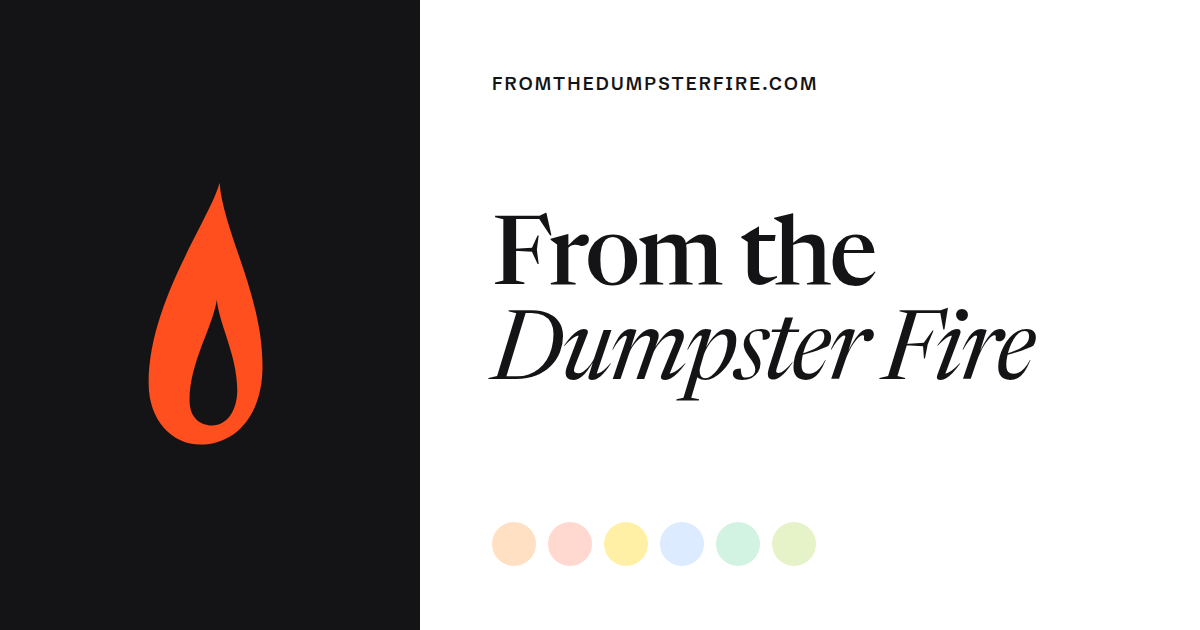
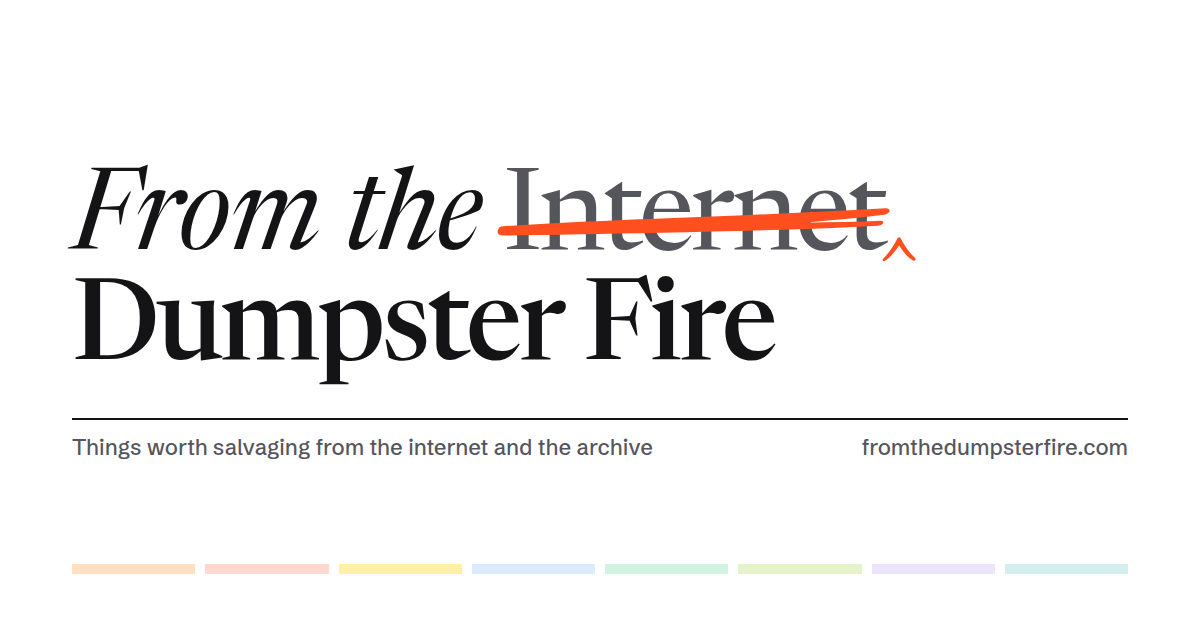
Web: default share image with the corrected masthead; the contents rule in the edition ink
Claude-Session: https://claude.ai/code/session_01QDocWfnNDiEYsBGkSeToHP

diff --git a/apps/web/scripts/og.html b/apps/web/scripts/og.html
@@ -1,33 +1,31 @@
 <!doctype html>
-<!-- Source of public/og.png, the default share image (1200x630). Rendered with:
-     google-chrome --headless --hide-scrollbars --window-size=1200,630 --screenshot=public/og.png scripts/og.html
-     (run from apps/web). Type and colours only; no generated imagery. -->
+<!-- Source of public/og.png, the default share image (1200x630), used when a page has no Haul card or
+     plate. Rendered with (from apps/web):
+     google-chrome --headless=new --hide-scrollbars --allow-file-access-from-files --window-size=1200,630 --screenshot=public/og.png scripts/og.html
+     Type, the masthead's marks and the type swatches only; no generated imagery. -->
 <html lang="en">
 <head>
 <meta charset="utf-8">
 <style>
 @font-face { font-family: 'ND'; src: url('../public/fonts/NewsreaderDisplay-Medium.woff2'); font-weight: 500; }
+@font-face { font-family: 'ND'; src: url('../public/fonts/NewsreaderDisplay-Regular.woff2'); font-weight: 400; }
 @font-face { font-family: 'ND'; src: url('../public/fonts/NewsreaderDisplay-Italic.woff2'); font-weight: 400; font-style: italic; }
-@font-face { font-family: 'SG'; src: url('../public/fonts/Schibsted-SemiBold.woff2'); font-weight: 600; }
+@font-face { font-family: 'SG'; src: url('../public/fonts/Schibsted-Medium.woff2'); font-weight: 500; }
 html, body { margin: 0; width: 1200px; height: 630px; overflow: hidden; }
-body { background: #FFFFFF; color: #141416; font-family: 'ND', serif; display: grid; grid-template-columns: 420px 1fr; }
-.left { background: #141416; display: flex; align-items: center; justify-content: center; }
-.right { padding: 72px 72px 64px; display: flex; flex-direction: column; justify-content: space-between; }
-.label { font-family: 'SG', sans-serif; font-weight: 600; font-size: 18px; letter-spacing: 0.12em; text-transform: uppercase; }
-h1 { margin: 0; font-weight: 500; font-size: 96px; line-height: 0.98; letter-spacing: -0.03em; }
-h1 em { font-weight: 400; }
-.swatches { display: flex; gap: 12px; }
-.swatches span { width: 44px; height: 44px; border-radius: 50%; }
+body { background: #FFFFFF; color: #141416; font-family: 'ND', serif; padding: 0 72px; box-sizing: border-box; display: flex; flex-direction: column; justify-content: center; position: relative; }
+.mast { font-weight: 500; font-size: 112px; line-height: 0.98; letter-spacing: -0.03em; }
+.mast i { font-weight: 400; letter-spacing: -0.01em; }
+.mast s { text-decoration: none; position: relative; color: #55555C; font-weight: 400; }
+.mast s::after { content: ''; position: absolute; left: -0.06em; right: -0.08em; top: 0.33em; height: 0.3em; background: #FF4F1F; -webkit-mask: url('../public/marks/strike.svg') center / 100% 100% no-repeat; }
+.caret { display: inline-block; width: 0.3em; height: 0.24em; margin: 0 -0.1em 0 -0.02em; vertical-align: -0.12em; background: #FF4F1F; -webkit-mask: url('../public/marks/caret.svg') center / contain no-repeat; }
+.strap { display: flex; justify-content: space-between; margin-top: 30px; padding-top: 14px; border-top: 2px solid #141416; font-family: 'SG', sans-serif; font-weight: 500; font-size: 22px; color: #55555C; }
+.keys { position: absolute; left: 72px; right: 72px; bottom: 56px; display: flex; gap: 10px; }
+.keys span { flex: 1; height: 10px; }
 </style>
 </head>
 <body>
-<div class="left">
-  <svg width="220" height="300" viewBox="20 14 24 44" aria-hidden="true"><path d="M33.4 16.6C32 22 23 34 23 46c0 5.5 3.5 9 7.6 9 4.9 0 9.1-4 9.1-11.5 0-10.5-5.7-19.5-6.3-26.9Z" fill="#FF4F1F"/><path d="M33 33.8c-.7 4.2-4 9.2-4 14.7 0 2.5 1.5 3.7 3.3 3.7 2.2 0 3.7-2.2 3.7-5.2 0-5-2.6-9.5-3-13.2Z" fill="#141416"/></svg>
-</div>
-<div class="right">
-  <div class="label">fromthedumpsterfire.com</div>
-  <h1>From the <em>Dumpster Fire</em></h1>
-  <div class="swatches"><span style="background:#FFE0C2"></span><span style="background:#FFD8D0"></span><span style="background:#FFF0A6"></span><span style="background:#DCEBFF"></span><span style="background:#D2F3E2"></span><span style="background:#E6F2C8"></span></div>
-</div>
+<div class="mast"><i>From the</i> <s>Internet</s><span class="caret"></span><br>Dumpster Fire</div>
+<div class="strap"><span>Things worth salvaging from the internet and the archive</span><span>fromthedumpsterfire.com</span></div>
+<div class="keys"><span style="background:#FFE0C2"></span><span style="background:#FFD8D0"></span><span style="background:#FFF0A6"></span><span style="background:#DCEBFF"></span><span style="background:#D2F3E2"></span><span style="background:#E6F2C8"></span><span style="background:#ECE4FA"></span><span style="background:#D3EFF0"></span></div>
 </body>
 </html>

diff --git a/apps/web/src/styles/global.css b/apps/web/src/styles/global.css
@@ -755,3 +755,4 @@ blockquote > p + p { margin-top: 0.65em; }
   .sp-print { grid-column: span 6; }
   .sp-jacket { grid-column: span 3; }
 }
+.has-ed .sp-h { border-top-color: var(--ed); }
